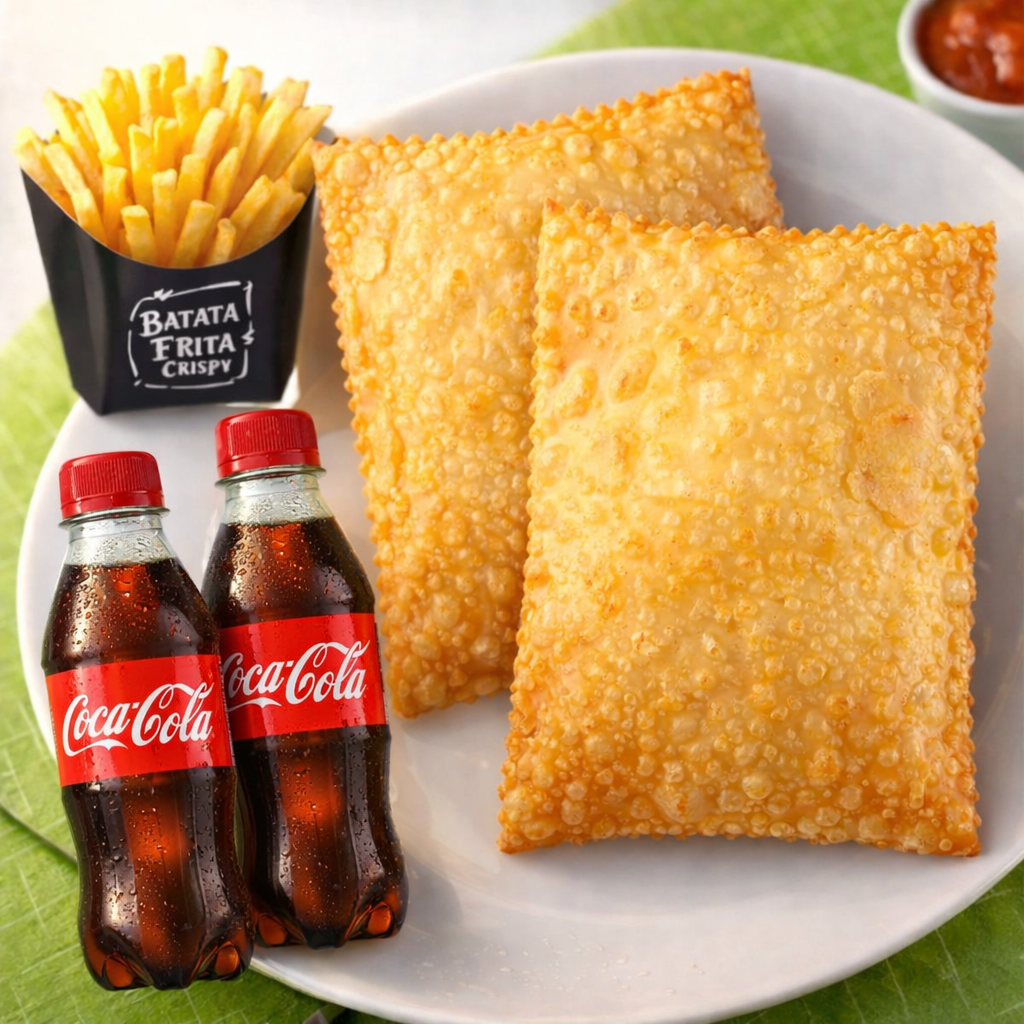
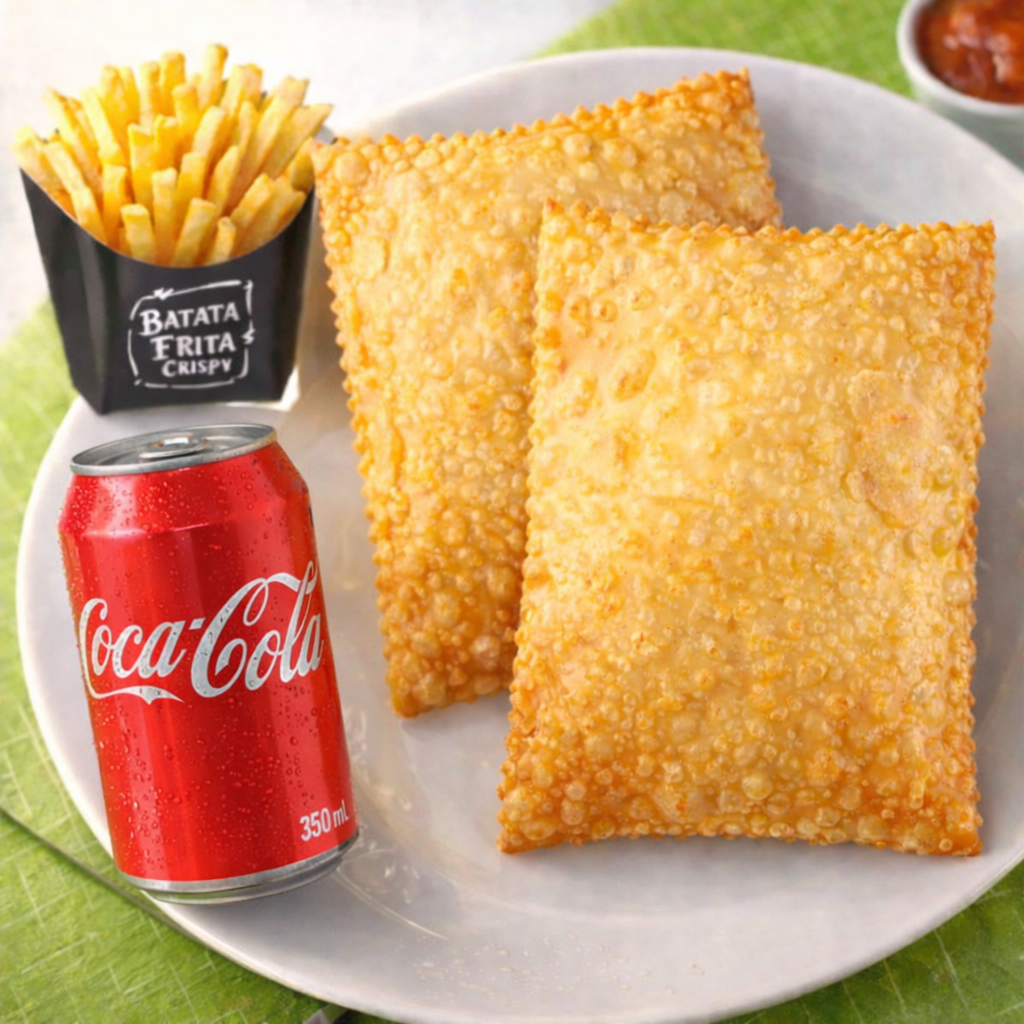
ajustes fds

diff --git a/index.html b/index.html
@@ -49,6 +49,19 @@
       </div>
     </div>
 
+    <div class="item" data-nome="Batata Frita G + cheddar e bacon + " data-preco="6">
+      <div class="info">
+        <h3>Batata Frita G Com cheddar e bacon</h3>
+        <p class="descricao">Tamanho G</p>
+        <strong>R$ 15,00</strong>
+      </div>
+      <img class="foto-produto" src="img/cheddar.png">
+      <div class="qtd vertical">
+        <button onclick="alterarQtd(this, 1)">+</button>
+        <span class="valor">0</span>
+        <button onclick="alterarQtd(this, -1)">−</button>
+      </div>
+    </div>
 
     <section class="grupo-sabor">
       <h2 class="categoria">Pastel da Casa</h2>
@@ -192,13 +205,13 @@
             </div>
           </div>
 
-            <!--<section class="grupo-sabor" id="combos"></section>
+          <section class="grupo-sabor" id="combos"></section>
           <h2 class="categoria">Combos</h2>
 
-        <div class="item" data-nome="2 pastéis de carne + 2 refrigerante coca-cola 250ml" data-preco="21">
+          <div class="item" data-nome="2 pastéis de carne + 1 Coca-cola lata 350ml" data-preco="21">
             <div class="info">
-              <h3>Combo 2 Pastéis Carne + 2 Bebidas</h3>
-              <p class="descricao">2 pastéis de carne + 2 refrigerante coca-cola 250ml</p>
+              <h3>2 Pastéis Carne + 1 Coca-cola Lata 350ml</h3>
+              <p class="descricao">2 pastéis de carne + 1 coca-cola 350ml</p>
               <strong>R$ 21,00</strong>
             </div>
             <img class="foto-produto" src="img/combo3.png">
@@ -209,11 +222,11 @@
             </div>
           </div>
 
-          <div class="item" data-nome="2 pastéis de frango + 2 refrigerante coca-cola 250ml" data-preco="23">
+          <div class="item" data-nome="2 pastéis de frango + 1 Coca-cola lata 350ml" data-preco="22">
             <div class="info">
-              <h3>Combo 2 Pastéis Frango + 2 Bebidas</h3>
-              <p class="descricao">2 pastéis de frango + 2 refrigerante coca-cola 250ml"</p>
-              <strong>R$ 23,00</strong>
+              <h3>2 Pastéis Frango + 1 Coca-cola Lata 350ml</h3>
+              <p class="descricao">2 pastéis de frango + 1 Coca-cola Lata 350ml"</p>
+              <strong>R$ 22,00</strong>
             </div>
             <img class="foto-produto" src="img/combo3.png">
             <div class="qtd vertical">
@@ -223,11 +236,10 @@
             </div>
           </div>
 
-          <div class="item" data-nome="2 pastéis de carne + 2 refrigerante coca-cola 250ml + 1 Batata frita P"
-            data-preco="27">
+          <div class="item" data-nome="2 pastéis de carne + 1 Coca-cola lata 350ml + 1 Batata frita P" data-preco="27">
             <div class="info">
-              <h3>Combo 2 Pastéis Carne + 2 Bebidas + 1 batata P</h3>
-              <p class="descricao">2 pastéis de carne + 2 refrigerante coca-cola 250ml + 1 Batata frita P </p>
+              <h3>2 Pastéis Carne + 1 Coca-cola lata 350ml + 1 batata P</h3>
+              <p class="descricao">2 pastéis de carne + 1 Coca-cola lata 350ml + 1 Batata frita P </p>
               <strong>R$ 27,00</strong>
             </div>
             <img class="foto-produto" src="img/combo2.png">
@@ -238,12 +250,11 @@
             </div>
           </div>
 
-          <div class="item" data-nome="2 pastéis de frango + 2 refrigerante coca-cola 250ml + 1 Batata frita P"
-            data-preco="30">
+          <div class="item" data-nome="2 pastéis de frango + 1 Coca-cola lata 350ml + 1 Batata frita P" data-preco="28">
             <div class="info">
-              <h3>Combo 2 Pastéis Frango + 2 Bebidas + 1 batata P</h3>
-              <p class="descricao">2 pastéis de frango + 2 refrigerante coca-cola 250ml + 1 Batata frita P </p>
-              <strong>R$ 30,00</strong>
+              <h3>2 Pastéis Frango + 1 Coca-cola lata 350ml + 1 batata P</h3>
+              <p class="descricao">2 pastéis de frango + 1 Coca-cola lata 350ml + 1 Batata frita P </p>
+              <strong>R$ 28,00</strong>
             </div>
             <img class="foto-produto" src="img/combo2.png">
             <div class="qtd vertical">
@@ -251,7 +262,7 @@
               <span class="valor">0</span>
               <button onclick="alterarQtd(this, -1)">−</button>
             </div>
-          </div> -->
+          </div>
 
           <section class="grupo-sabor" id="petiscos"></section>
           <h2 class="categoria">Petiscos</h2>
@@ -283,30 +294,30 @@
               <button onclick="alterarQtd(this, -1)">−</button>
             </div>
           </div>
-
+          
           <h2 class="categoria">Bebidas</h2>
 
-          <!--<div class="item" data-nome="Refrigerante Guaraná Antarctica Pet 200ml" data-preco="3" id="bebidas">
+          <div class="item" data-nome="Refrigerante Coca Cola Lata 350ml" data-preco="4.5">
             <div class="info">
-              <h3>Refrigerante Coca-cola 250ml Pet</h3>
-              <p class="descricao">Coca-cola</p>
-              <strong>R$ 3,50</strong>
+              <h3>Refrigerante Coca-Cola Lata 350ml</h3>
+              <p class="descricao">Lata 350ml</p>
+              <strong>R$ 4,50</strong>
             </div>
-            <img class="foto-produto" src="img/cocapet.png">
+            <img class="foto-produto" src="img/cocalata.png">
             <div class="qtd vertical">
               <button onclick="alterarQtd(this, 1)">+</button>
               <span class="valor">0</span>
               <button onclick="alterarQtd(this, -1)">−</button>
             </div>
-          </div>-->
+          </div>
 
-          <div class="item" data-nome="Refrigerante Coca Cola Lata 350ml" data-preco="4.5">
+          <div class="item" data-nome="Refrigerante São Geraldo lata 350ml" data-preco="4.5">
             <div class="info">
-              <h3>Refrigerante Coca Cola Lata 350ml</h3>
-              <p class="descricao">Guaraná</p>
+              <h3>Refrigerante São Geraldo lata 350ml</h3>
+              <p class="descricao">Lata 350ml</p>
               <strong>R$ 4,50</strong>
             </div>
-            <img class="foto-produto" src="img/cocalata.png">
+            <img class="foto-produto" src="img/cajuina-lata.png">
             <div class="qtd vertical">
               <button onclick="alterarQtd(this, 1)">+</button>
               <span class="valor">0</span>
